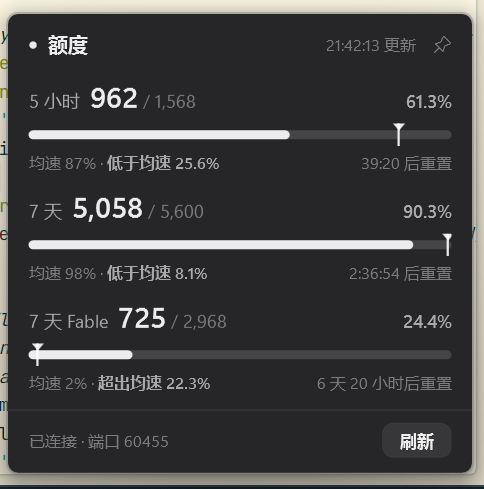
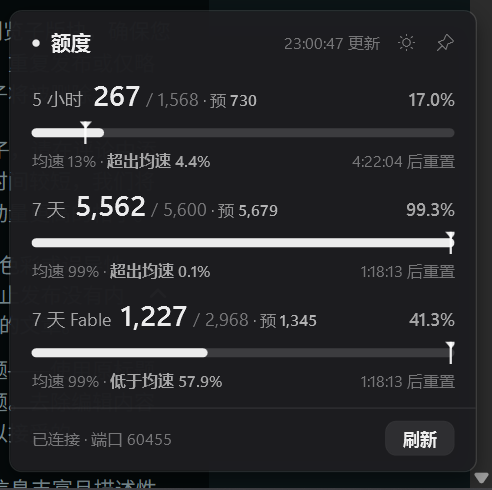
README 全面重写 + 截图换新(面板含期末预估/双按钮,新增托盘三图标特写)

diff --git a/README.md b/README.md
@@ -1,27 +1,44 @@
 # mirasim-quota-widget
 
-给 [Mirasim](https://mirasim.ai) 做的 Windows **系统托盘额度监视器**:
-托盘图标实时显示最紧窗口的已用百分比,左键弹出水墨风格面板,完整展示
-5 小时 / 7 天 / 7 天 Fable 三个额度窗口。
+[Mirasim](https://mirasim.ai) 的 Windows **系统托盘额度监视器**:
+三枚托盘圆环实时显示 **5 小时 / 7 天 / 7 天 Fable** 三个额度窗口的已用百分比,
+点击弹出水墨面板——积分明细、**期末预估**、均速参考标、秒级重置倒计时。
 
-![托盘面板](assets/tray-panel.png)
+零依赖单文件 PowerShell;不改动 Mirasim 客户端任何文件,任何版本可用,更新无感;
+全部请求走本机回环,**零额度消耗**。
+
+![托盘图标](assets/tray-icons.png)
+
+![面板](assets/tray-panel.png)
 
 ## 功能
 
-- **托盘图标**:三枚独立图标(左→右 = 5h / 7d / Fable),每枚正常大小圆环 + 中央已用%数字,各自 **≥70% 变黄、≥90% 变红**,其余水墨单色(跟随任务栏明暗,按托盘原生尺寸绘制);Fable 缺席自动隐藏第三枚;点击任意一枚弹出面板
-- **点击弹出面板**(快速缩放淡入淡出;点击他处或 Esc 自动收起;右上角**白/黑主题切换**(记住选择,不切则跟随系统)与**图钉置顶**):
-  - 三窗口 **已用 / 总量 积分数** 与百分比
-  - **期末预估**(积分旁「预 N」):分段回归外推 —— 未来 1 小时按近 10 分钟时间加权
-    最小二乘速率,其余时间按 ≤3 小时长程回归速率(抗块状落账噪声;各窗口独立采样,
-    窗口重置自动清史)。5h/7d 采样不足时退化为窗口均速比例;Fable 专项池只认
-    fable 自身金额的上涨,采样不足宁可不显示
-  - **均速参考标**:按窗口已流逝时间比例在进度条上打标(三角 + 竖线),并给出「低于均速 x% / 超出均速 x%」
-  - **秒级走动的重置倒计时**
-  - Fable 专项周池缺席(服务降级)时自动隐藏;暂停 / 降级 / 不计量 状态横幅
-- 水墨单色设计,跟随系统明暗主题;圆角卡片 + 柔和阴影,逐像素透明窗,动画时整体显隐无残留
-- 右键菜单:打开面板 / 刷新 / 开机自启 / 退出;单实例;断连时显示最后一次数据与时间
-- **完全独立于 Mirasim 客户端文件**——不注入、不依赖浏览器,任何版本可用,客户端更新无感
-- **零额度消耗**:只读本机回环接口,无任何计费调用
+**托盘:三枚独立图标(左→右 = 5h / 7d / Fable)**
+
+- 每枚 = 贴边粗圆环 + 中央已用 % 数字;空位灰色,进度按任务栏明暗用白/黑水墨
+- 阈值变色:**≥70% 变黄、≥90% 变红**
+- 按托盘原生尺寸绘制,高 DPI 不发糊;悬停显示明细;点击任意一枚弹出面板
+- Fable 专项池缺席(服务降级)时第三枚自动隐藏
+
+**面板:水墨风格,逐像素透明圆角卡片 + 柔和阴影,快速缩放淡入淡出**
+
+- 三窗口大字积分(已用 / 总量,积分 = 原始金额 ÷ 100)与百分比、进度条
+- **期末预估**(积分旁「预 N」):分段回归外推——未来 1 小时按**近 10 分钟时间加权
+  最小二乘速率**,其余时间按 **≤3 小时长程回归速率**;抗块状落账噪声;各窗口独立采样,
+  窗口重置自动清史。**Fable 只按 fable 自身金额的上涨计算**,采样不足(<90 秒)宁可不显示;
+  5h/7d 采样不足时退化为窗口均速比例
+- **均速参考标**(三角 + 竖线):按窗口已流逝时间比例在进度条上打标,
+  并给出「低于均速 x.x% / 超出均速 x.x%」
+- **秒级走动的重置倒计时**;账户暂停 / 服务降级 / 不计量状态横幅
+- 右上角:**白/黑主题切换**(记住选择,未手动切换时跟随系统)、**图钉置顶**(固定后点外不收)
+- Esc 或点击他处自动收起;「刷新」按钮即时拉取
+
+**数据与工程**
+
+- 进程内枚举 Mirasim 监听端口 → `GET /v1/limits`(绝对 used / budget / reset_at 与状态位):
+  **10 秒轮询**;打开面板或点刷新 **≤0.2 秒**即时拉取;界面 250ms 心跳
+- 路由端口随服务端重启漂移 → 自动重枚举定位;断连时显示最后一次数据与时间(本地缓存兜底)
+- 单实例互斥;开机自启;启动后预热渲染管线,首次打开面板即时弹出
 
 ## 安装
 
@@ -32,33 +49,34 @@ powershell -ExecutionPolicy Bypass -File install.ps1
 ```
 
 install.ps1 会:修正脚本编码 → 注册开机自启(`HKCU\...\Run` 的 `MirasimQuotaTray`)→ 启动托盘。
-图标可能落在托盘「隐藏图标」溢出区,点向上箭头展开后可拖到常驻区。
+图标可能落在托盘「隐藏图标」溢出区,点向上箭头展开后可拖到常驻区;三枚图标顺序也可拖动调整。
 
 ## 卸载
 
-托盘右键 → 取消勾选「开机自启」→「退出」。即已干净卸载
-(数据缓存 `%LOCALAPPDATA%\mirasim-quota-tray-cache.json` 与主题偏好 `mirasim-quota-tray-theme.txt`,可顺手删除)。
+托盘右键 → 取消勾选「开机自启」→「退出」,即已干净卸载。
+可顺手删除 `%LOCALAPPDATA%` 下的 `mirasim-quota-tray-cache.json`(数据缓存)与
+`mirasim-quota-tray-theme.txt`(主题偏好)。
 
 ## 数据来源与原理
 
 | 数据 | 来源 | 频率 |
 |---|---|---|
-| 三窗口 used / budget / reset_at 与状态位 | Mirasim 路由端口 `GET /v1/limits` | 10s 轮询,打开面板/点刷新即时拉取 |
+| 三窗口 used / budget / reset_at 与状态位 | Mirasim 路由端口 `GET /v1/limits` | 10s 轮询;开面板/刷新即时 |
+| 期末预估 | 上述采样的本地分段加权回归 | 随采样更新 |
 
-路由端口随服务端重启漂移,托盘自动枚举 Mirasim 进程的本机监听端口重新定位;
-积分数 = 原始数值 ÷ 100。全部请求都在本机回环,不触发任何模型调用。
+积分数 = 原始数值 ÷ 100。全部请求都在本机回环,不触发任何模型调用,不消耗账户额度。
 
 ## 旧版:应用内注入 widget(仅 ≤ 0.0.224)
 
 仓库保留了此前的应用内实现(`quota-widget.js` + `probe-budget.ps1`):把 Apple 菜单栏风格的
 额度胶囊注入 Mirasim 标题栏,点击弹出同款毛玻璃面板,碰撞感知定位、总额度自动校准。
-**Mirasim 0.0.225 起注入通道被封死,该路线不再维护**;托盘版功能已完全覆盖。
+**Mirasim 0.0.225 起注入通道被封死,该路线不再维护**;托盘版功能已完全覆盖并超出。
 
 ![旧版弹层](assets/popover.png)
 
 ## 声明
 
-非官方项目,依赖 Mirasim 未公开的本地接口(`/v1/limits`,截至 v0.0.224 可用),
-新版本可能需要适配。仅在本机读取你自己的额度数据,风险自负。
+非官方项目,依赖 Mirasim 未公开的本地接口(`/v1/limits`)。仅在本机读取你自己的额度数据,
+新版本可能需要适配,风险自负。
 
 MIT License
